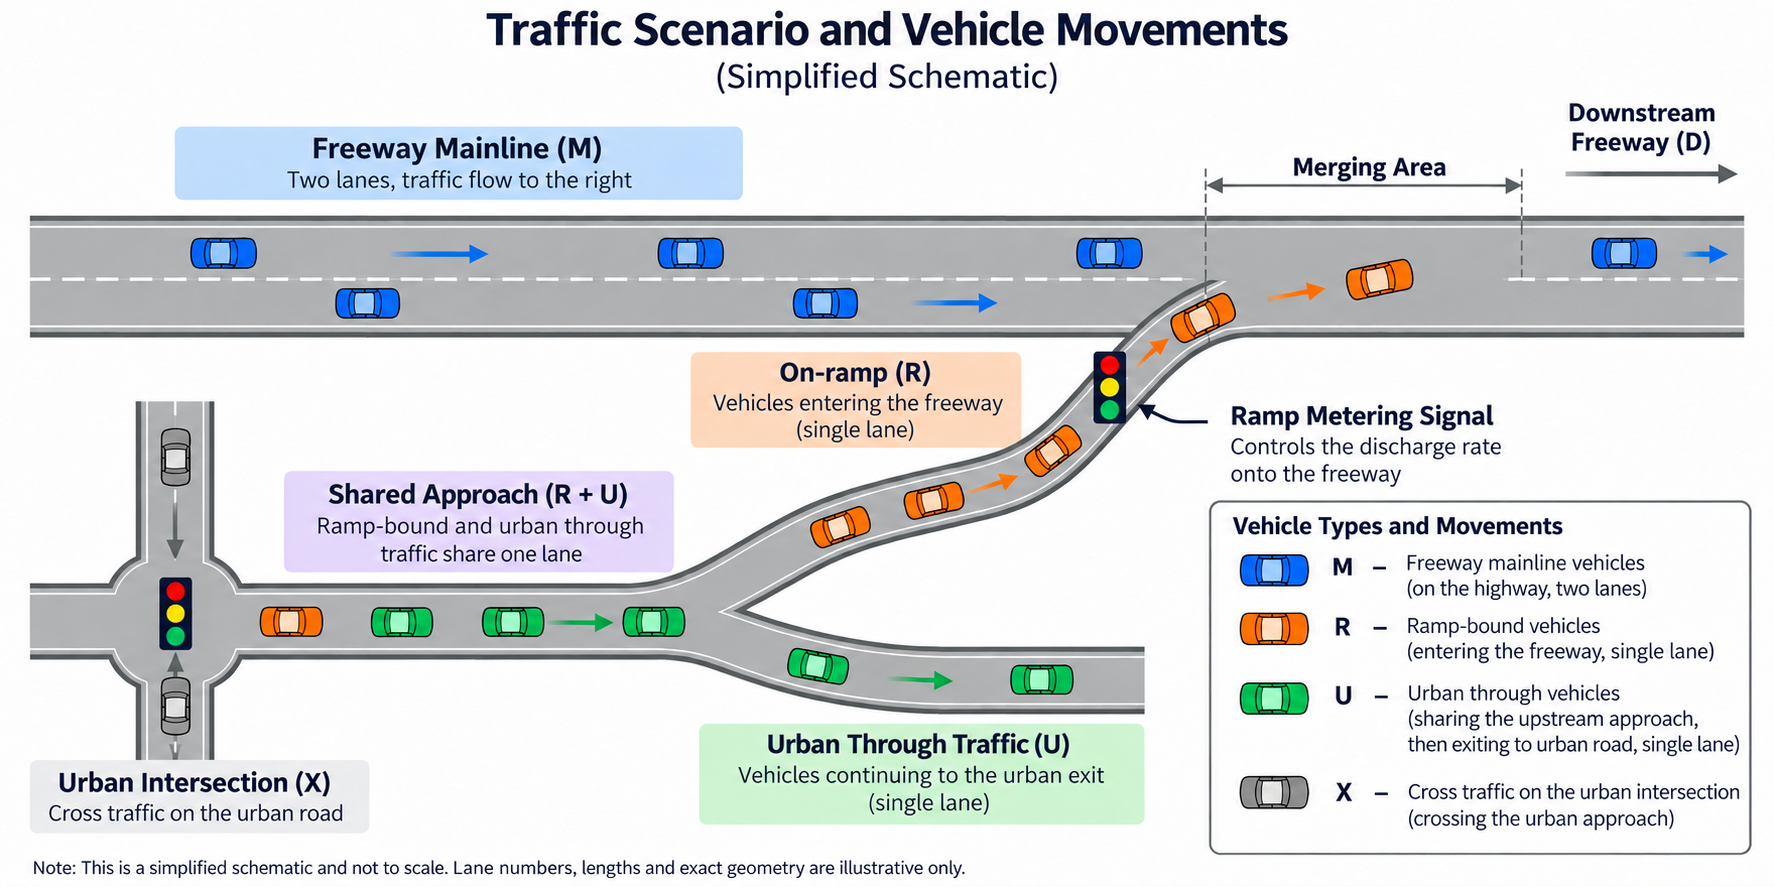
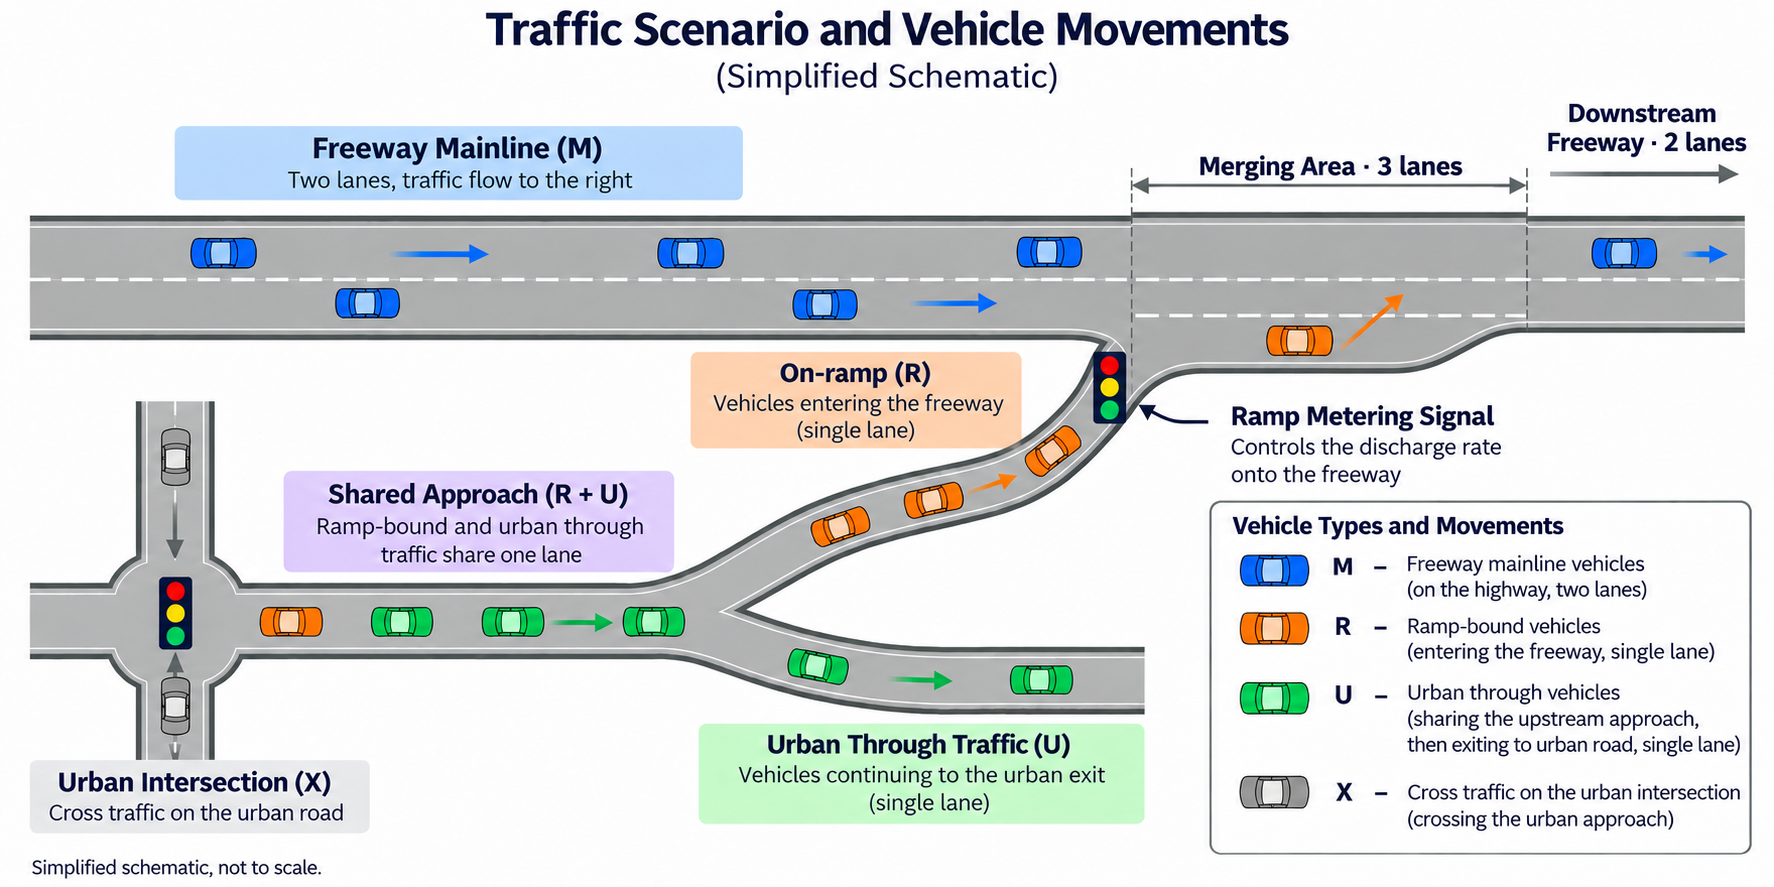
Show the 2–3–2 merge in the README

diff --git a/README.md b/README.md
@@ -7,11 +7,13 @@ vehicle-level traffic simulator, to study that trade-off. Ramp metering controls
 how quickly vehicles enter the freeway. It may protect mainline traffic while
 moving waiting time onto the ramp and shared urban approaches.
 
-The work uses a synthetic network: a two-lane freeway, one entrance ramp and an
-upstream signalised intersection. Ramp-bound and urban-through vehicles share
-part of the approach. The scene has not been calibrated against a real road.
+The work uses a synthetic network with a two-lane freeway, one entrance ramp
+and an upstream signalised intersection. The ramp adds a third lane through
+the merge, and the freeway returns to two lanes where that lane ends.
+Ramp-bound and urban-through vehicles share part of the approach. The scene
+has not been calibrated against a real road.
 
-![Traffic scenario and vehicle movements](docs/assets/traffic_scenario.png)
+![Traffic scenario with two freeway lanes upstream, three through the merge and two downstream](docs/assets/traffic_scenario.png)
 
 *Conceptual layout; the simulation network is supplied in
 [config/reproduction/network.net.xml](config/reproduction/network.net.xml).*
